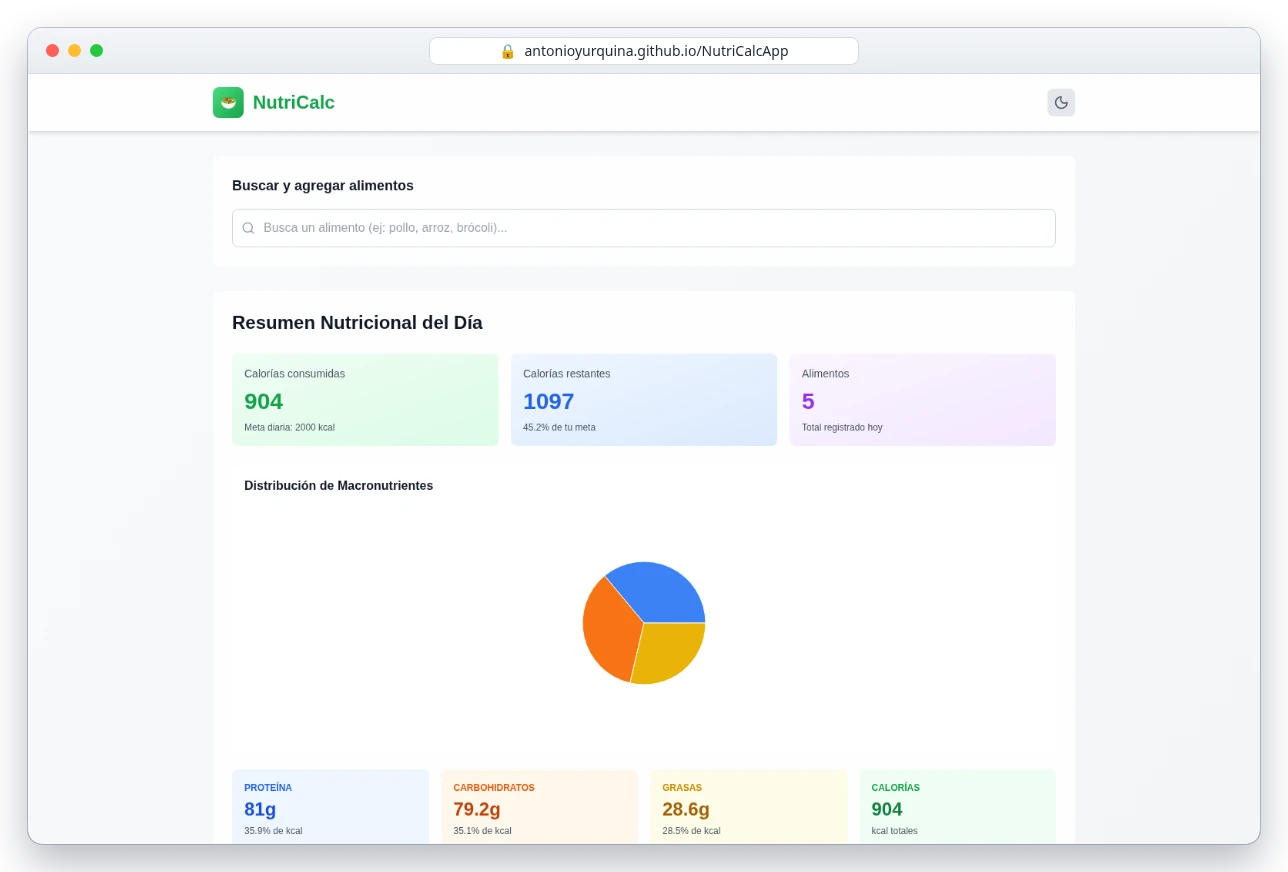
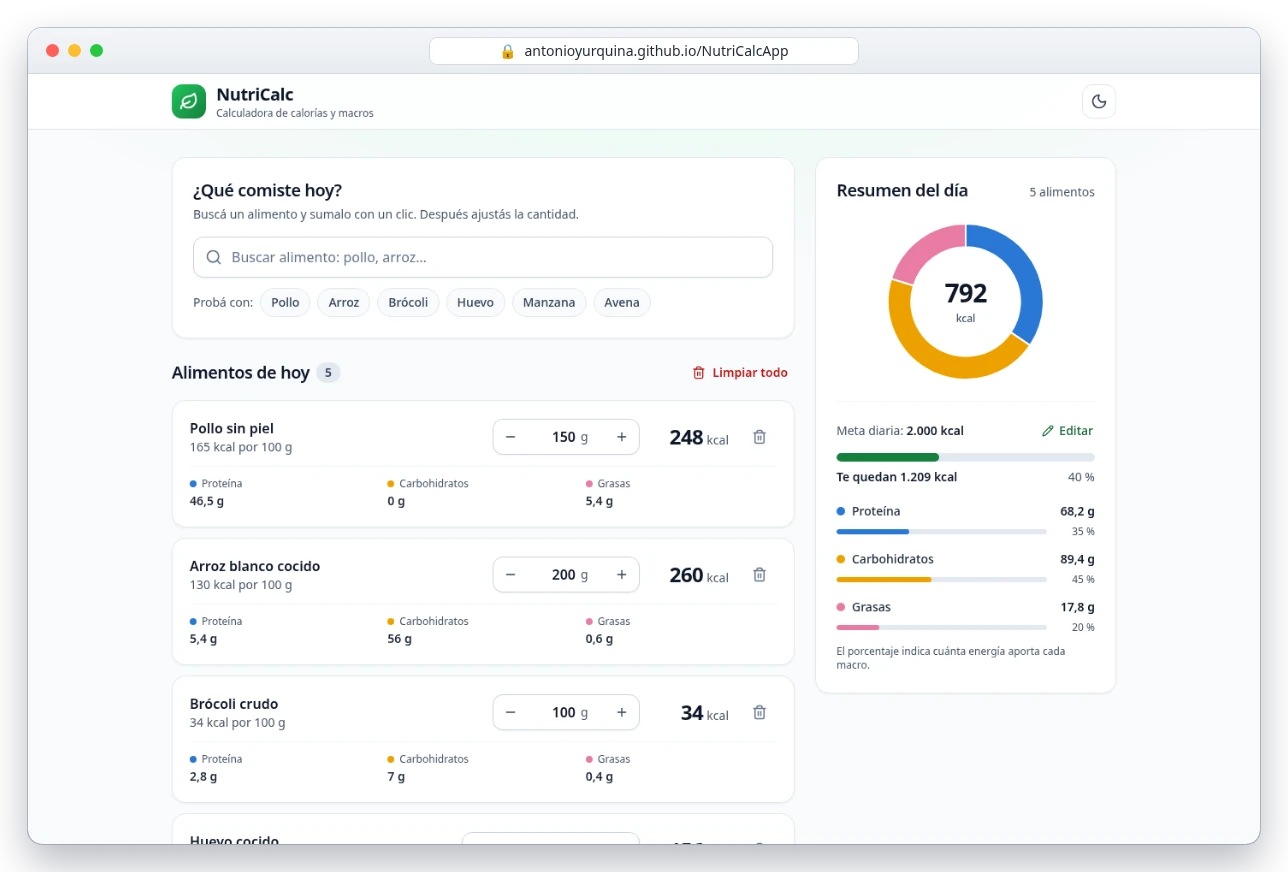
Actualiza la tarjeta de NutriCalc con el nuevo diseño

diff --git a/README.md b/README.md
@@ -76,9 +76,9 @@ encaro la interfaz, el estado y la organización del código.
       <p><a href="https://antonioyurquina.github.io/Prototipo-Startup-Modelos-3D/">Demo</a> · <a href="https://github.com/AntonioYurquina/Prototipo-Startup-Modelos-3D">Código</a></p>
     </td>
     <td width="50%" valign="top">
-      <a href="https://antonioyurquina.github.io/NutriCalcApp/"><img src="assets/nutricalc.webp" alt="Captura de NutriCalc: resumen nutricional diario con gráfico de macronutrientes"></a>
+      <a href="https://antonioyurquina.github.io/NutriCalcApp/"><img src="assets/nutricalc.webp" alt="Captura de NutriCalc: lista de alimentos con cantidades editables y resumen del día con anillo de macronutrientes y meta calórica"></a>
       <h3>NutriCalc</h3>
-      <p>Calculadora de consumo nutricional: buscador de alimentos, registro de comidas y resumen diario con gráficos.</p>
+      <p>Calculadora de calorías y macros: buscador de alimentos, cantidades editables, resumen del día con meta calórica ajustable, modo oscuro y uso completo desde el teclado.</p>
       <p><code>React</code> <code>Recharts</code> <code>Tailwind</code></p>
       <p><a href="https://antonioyurquina.github.io/NutriCalcApp/">Demo</a> · <a href="https://github.com/AntonioYurquina/NutriCalcApp">Código</a></p>
     </td>
